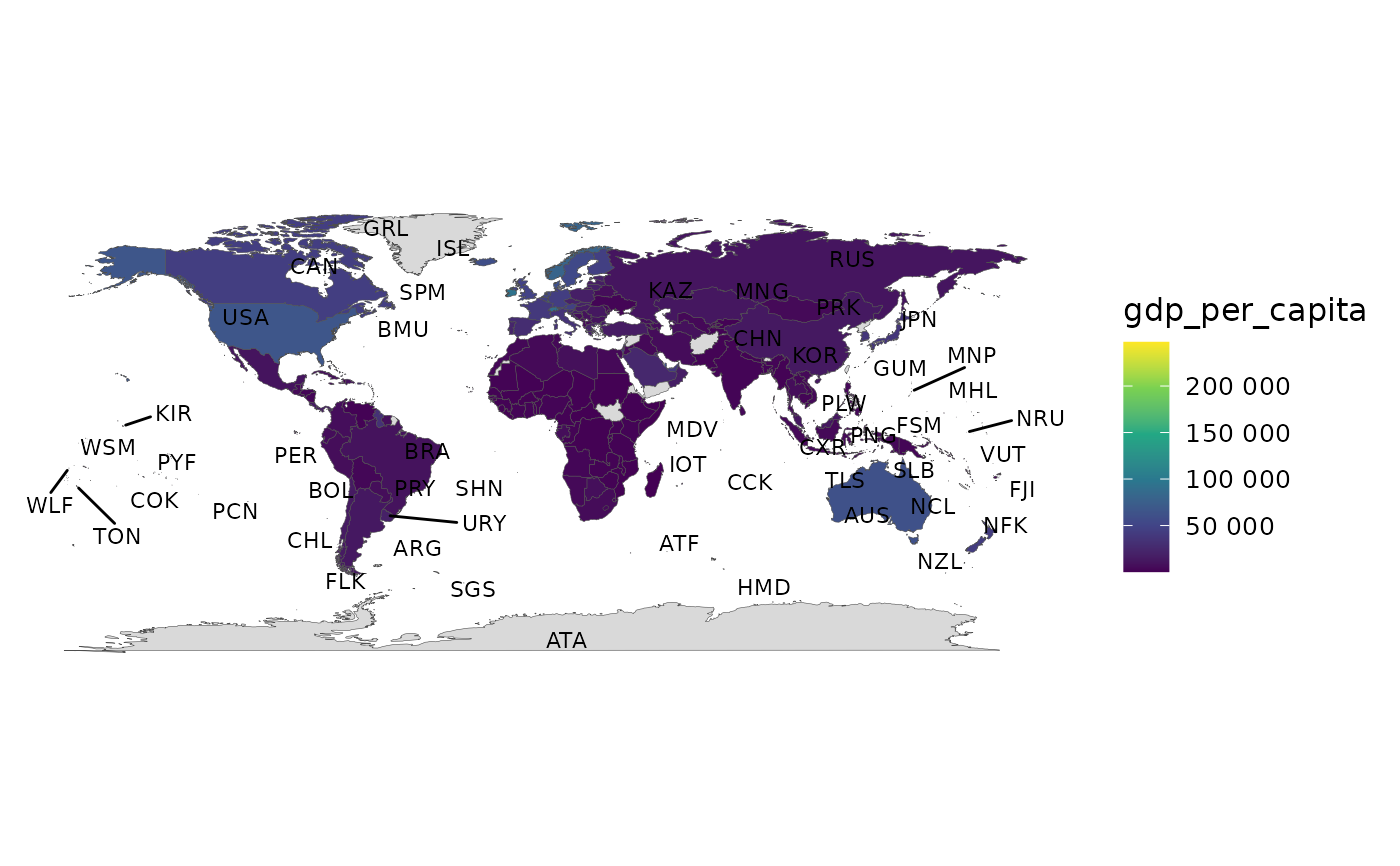
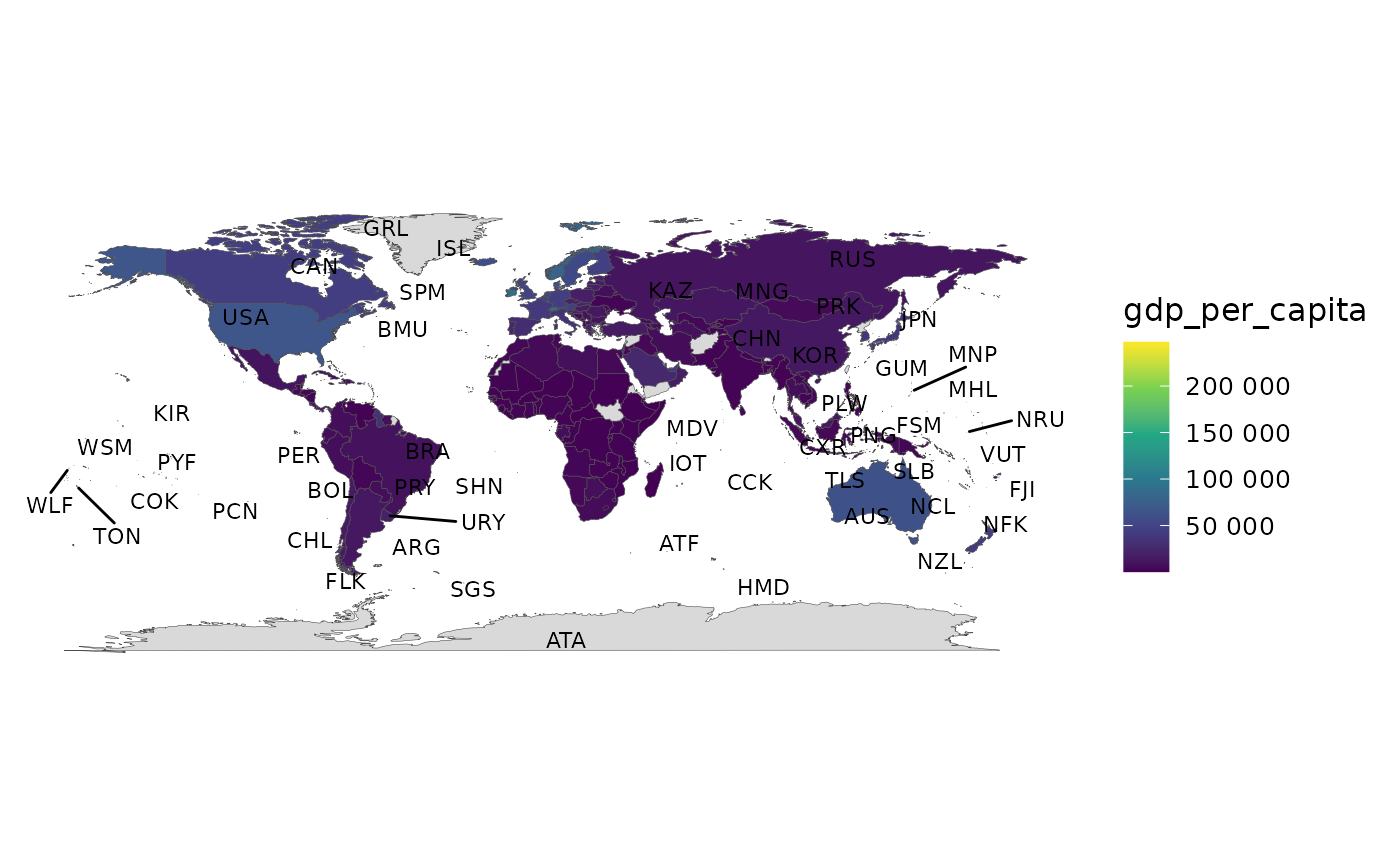
Deploying to gh-pages from @ PursuitOfDataScience/countryatlas@17fb44423fe9fa1041b8f5ecb6eacfc9adebc363 🚀

diff --git a/reference/locate_country.html b/reference/locate_country.html
@@ -62,7 +62,8 @@ spine so it can be joined, aggregated and mapped like everything else.</p>
 <span>  lat <span class="op">=</span> <span class="cn">NULL</span>,</span>
 <span>  points <span class="op">=</span> <span class="cn">NULL</span>,</span>
 <span>  scale <span class="op">=</span> <span class="st">"small"</span>,</span>
-<span>  add <span class="op">=</span> <span class="st">"country"</span></span>
+<span>  add <span class="op">=</span> <span class="st">"country"</span>,</span>
+<span>  tolerance_km <span class="op">=</span> <span class="fl">25</span></span>
 <span><span class="op">)</span></span></code></pre></div>
     </div>
 
@@ -86,6 +87,15 @@ ignored if <code>points</code> is supplied).</p></dd>
 <dt id="arg-add">add<a class="anchor" aria-label="anchor" href="#arg-add"></a></dt>
 <dd><p>Extra attributes to return alongside <code>iso3c</code> (any
 <code><a href="convert_country.html">convert_country()</a></code> destination, e.g. <code>"country"</code>, <code>"continent"</code>).</p></dd>
+
+
+<dt id="arg-tolerance-km">tolerance_km<a class="anchor" aria-label="anchor" href="#arg-tolerance-km"></a></dt>
+<dd><p>Snap an unmatched point to the nearest country when it
+lies within this many kilometres of one (default <code>25</code>). Coarse (110m)
+coastlines place some genuinely-onshore coastal points just outside their
+country (New York sits ~0.5 km beyond the simplified US coast); this
+rescues them while leaving open-ocean points <code>NA</code> (the nearest land is
+hundreds of km away). Set <code>0</code> for a strict point-in-polygon lookup.</p></dd>
 
 </dl></div>
     <div class="section level2">

diff --git a/reference/locate_country.md b/reference/locate_country.md
@@ -14,7 +14,8 @@ locate_country(
   lat = NULL,
   points = NULL,
   scale = "small",
-  add = "country"
+  add = "country",
+  tolerance_km = 25
 )
 ```
 
@@ -38,6 +39,15 @@ locate_country(
   Extra attributes to return alongside `iso3c` (any
   [`convert_country()`](https://pursuitofdatascience.github.io/countryatlas/reference/convert_country.md)
   destination, e.g. `"country"`, `"continent"`).
+
+- tolerance_km:
+
+  Snap an unmatched point to the nearest country when it lies within
+  this many kilometres of one (default `25`). Coarse (110m) coastlines
+  place some genuinely-onshore coastal points just outside their country
+  (New York sits ~0.5 km beyond the simplified US coast); this rescues
+  them while leaving open-ocean points `NA` (the nearest land is
+  hundreds of km away). Set `0` for a strict point-in-polygon lookup.
 
 ## Value
 